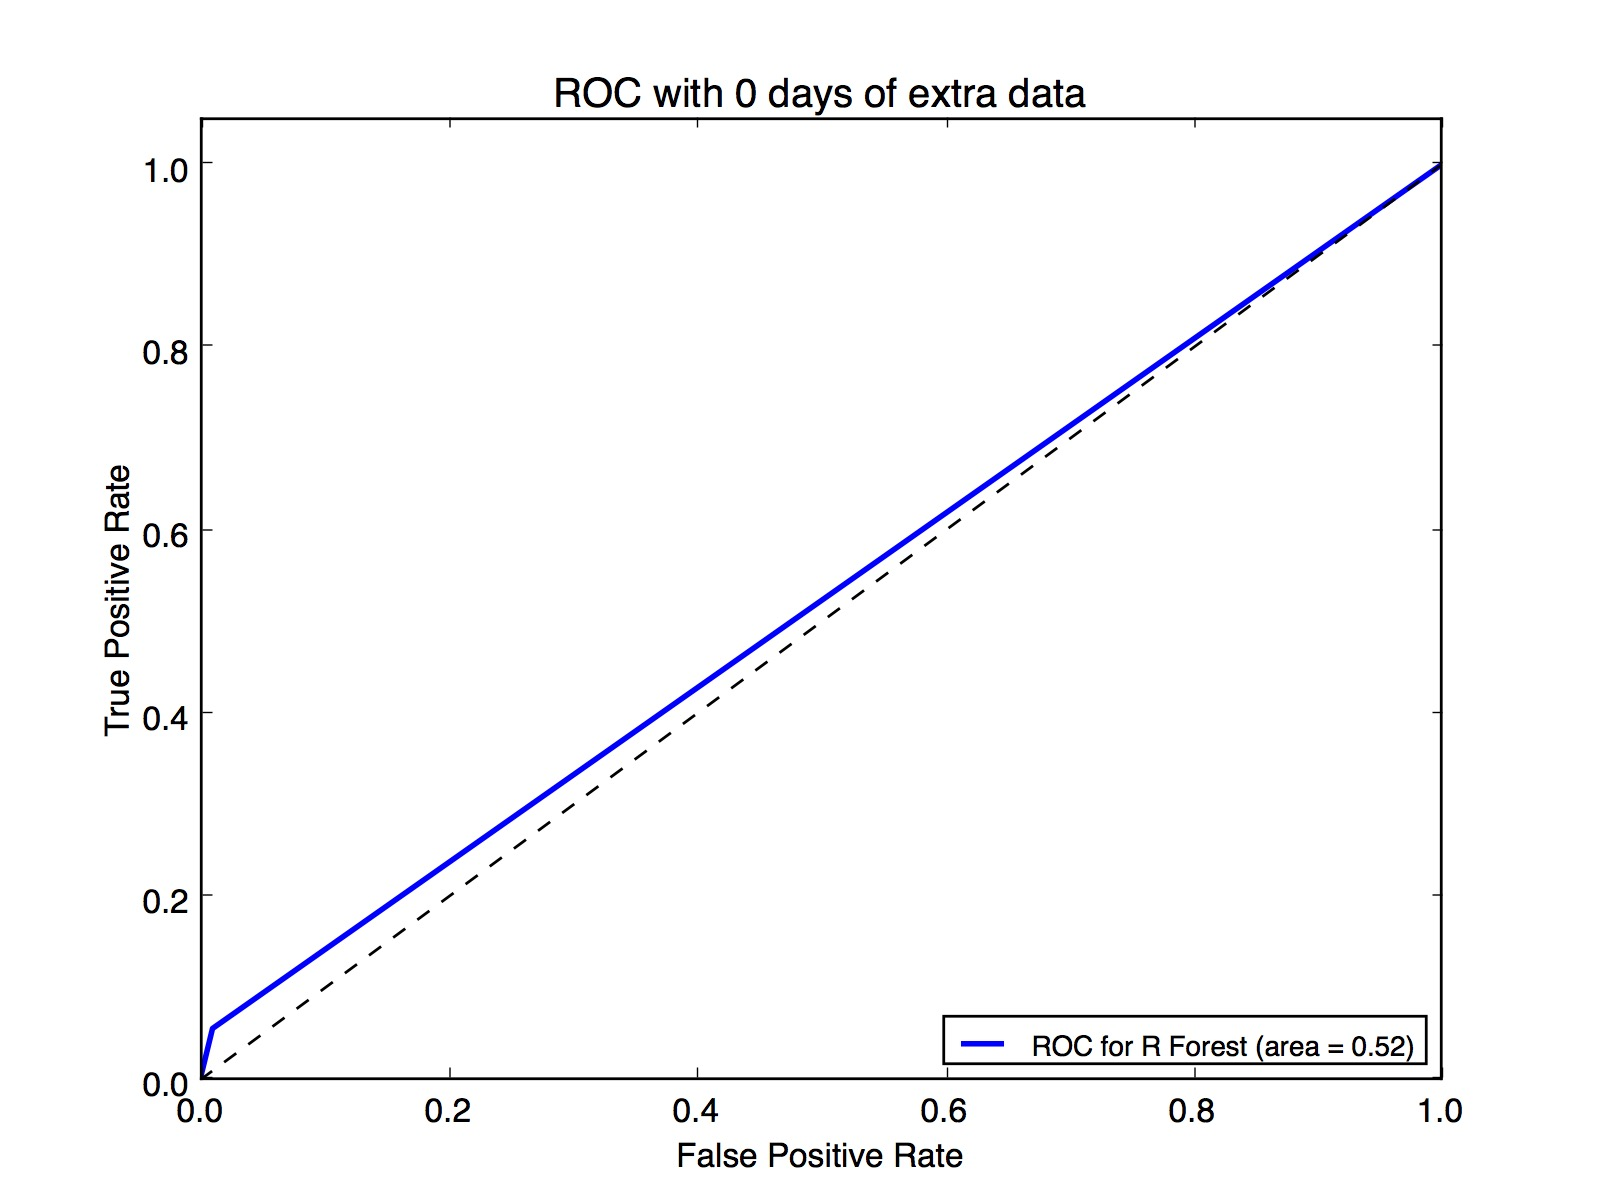
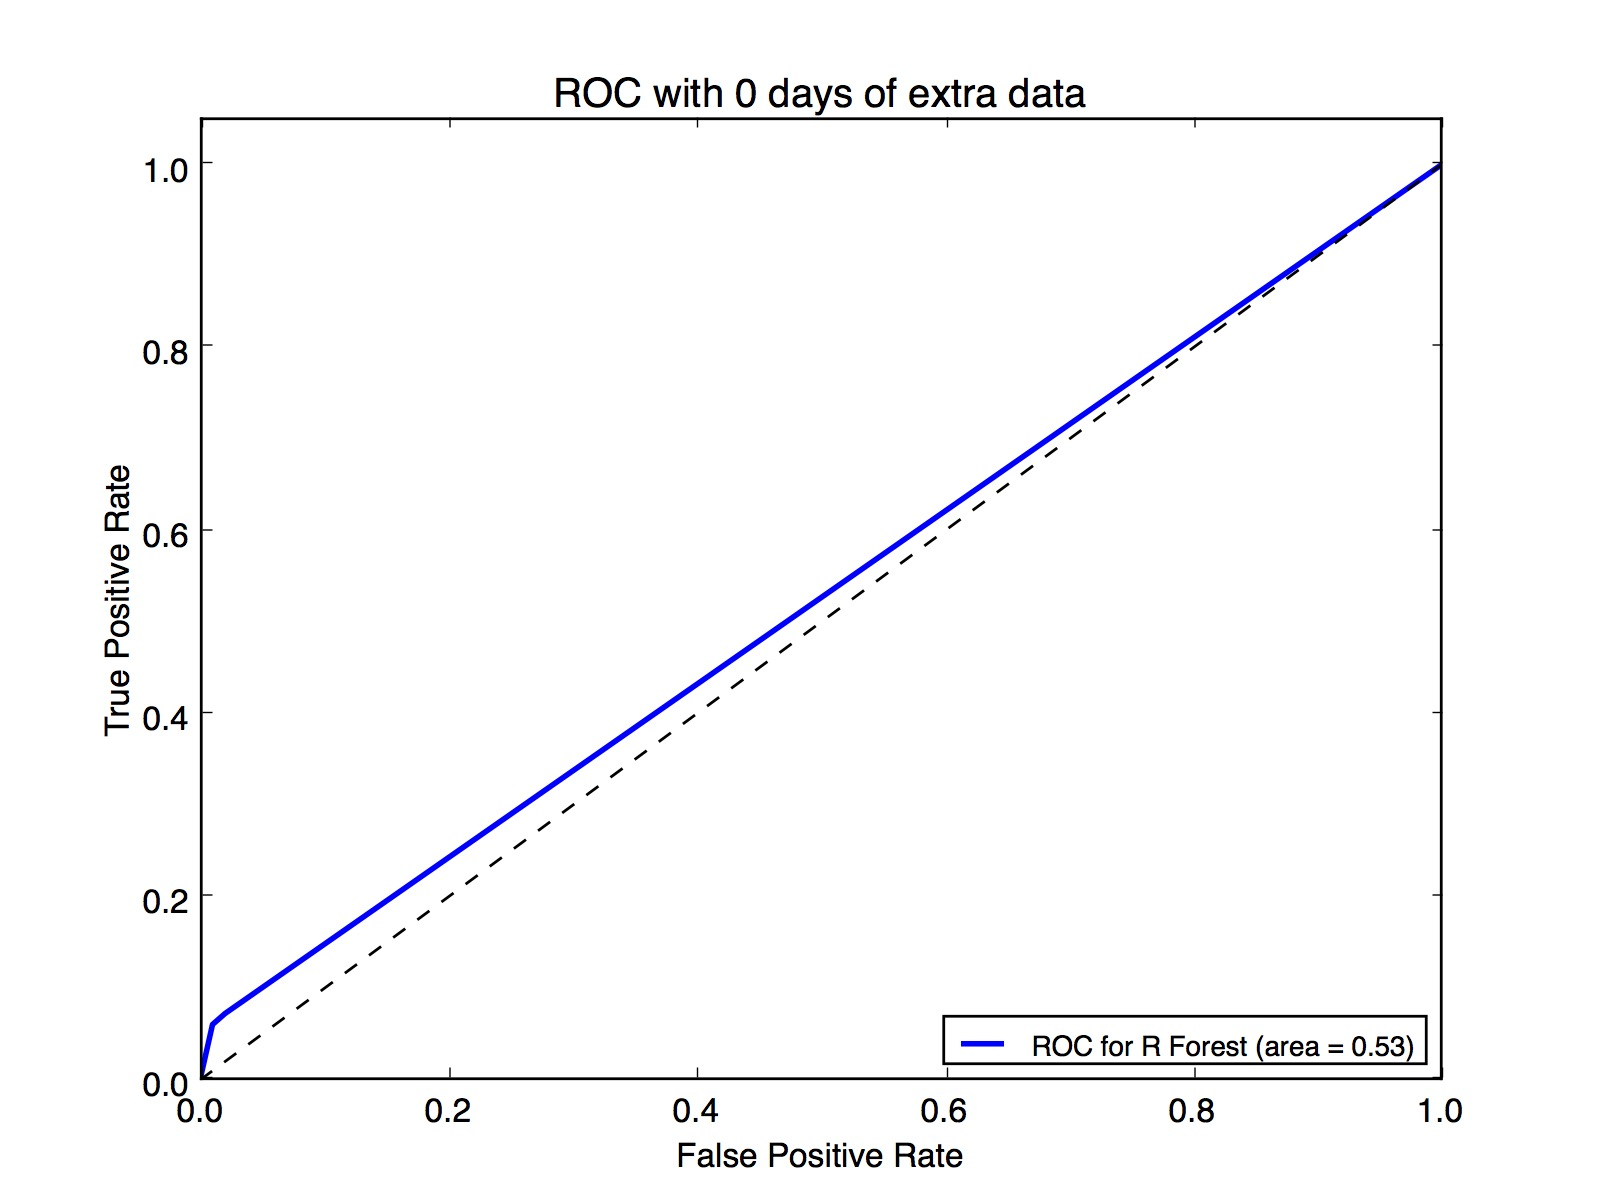
Pickle classifiers

diff --git a/capstone/west_nile/src/west_nile_model.py b/capstone/west_nile/src/west_nile_model.py
@@ -31,9 +31,18 @@ def clean_train(in_file, out_file):
             d_categorical_species[traps.iloc[index, species_idx]] == 3:
             species_categorical[index] = 1
         elif d_categorical_species[traps.iloc[index, species_idx]] == 2:
-            species_categorical[index] = 1.5
+            species_categorical[index] = 1
         else:
             species_categorical[index] = 0
+
+    traps['IsPipiens'        ] = ((traps['Species']=='CULEX PIPIENS'  )*1 +           # 8.9%   / 2699
+                               (traps['Species']=='CULEX PIPIENS/RESTUANS')*0.5)
+    traps['IsPipiensRestuans'] = ((traps['Species']=='CULEX PIPIENS/RESTUANS')*1 +    # 5.5%   / 4752
+                               (traps['Species']=='CULEX PIPIENS'  )*0 + (traps['Species']=='CULEX RESTUANS'  )*0)
+    traps['IsRestuans'       ] = ((traps['Species']=='CULEX RESTUANS'  )*1 +          # 1.8%   / 2740
+                               (traps['Species']=='CULEX PIPIENS/RESTUANS')*0.5)
+    traps['IsOther'          ] = (traps['Species']!='CULEX PIPIENS')*(traps['Species']!='CULEX PIPIENS/RESTUANS')*(traps['Species']!='CULEX RESTUANS')*1
+
 
     traps = traps.drop("Species", 1)
     traps = traps.drop("Address", 1)
@@ -43,7 +52,7 @@ def clean_train(in_file, out_file):
     traps = traps.drop("AddressAccuracy", 1)
     traps = traps.drop("Trap", 1)
 
-    traps['Species_Categorical'] = species_categorical
+    # traps['Species_Categorical'] = species_categorical
 
     traps.to_csv(out_file, index=False)
 
@@ -214,7 +223,7 @@ def last_week_weather(days_past, in_merged_file, in_weather_file, out_file):
         # From the day the virus was found add the weather for each day before that date to the dataframe.
         # go back for 5 days
         # store the data from traps csv. We'll append it to the weather for the last N days
-        data_from_traps = row[1:7]
+        data_from_traps = row[1:10]
         # now subtract N days
         for day in range(1, days_past+1):
             data_to_prepend = data_from_traps
@@ -232,10 +241,10 @@ def last_week_weather(days_past, in_merged_file, in_weather_file, out_file):
             traps_actual = traps_actual.append(data_to_append, ignore_index=True)
 
     print "Length after ", len(traps_actual)
-    traps_actual.to_csv('../input/train_weather_spray_appended.csv', index=False)
+    traps_actual.to_csv(out_file, index=False)
 
 
-def cluster_locations(in_file, out_file, test=False):
+def cluster_locations(in_file, out_file, test=False, clf=None):
     traps = pd.read_csv(in_file, parse_dates=['Date'])
 
     trap_loc = traps[['Longitude', 'Latitude']]
@@ -256,8 +265,11 @@ def cluster_locations(in_file, out_file, test=False):
 
     traps = traps.drop('Date', 1)
 
-    clf = KMeans()
-    labels = clf.fit_predict(trap_loc)
+    if clf is None:
+        clf = KMeans()
+        labels = clf.fit_predict(trap_loc)
+    else:
+        labels = clf.predict(trap_loc)
 
     traps['location_cluster'] = labels
     traps['WeekOfYear'] = week_of_year
@@ -267,6 +279,7 @@ def cluster_locations(in_file, out_file, test=False):
     if not test:
         traps = traps.drop('NumMosquitos', 1)
     traps.to_csv(out_file, index=False)
+    return clf
 
 
 def plot_roc_auc(clf, plt, traps, labels, name):
@@ -350,51 +363,79 @@ def roc_auc(file_num, in_file):
     return clf_rf
 
 
-def predict_virus(clf, in_file):
-     traps = pd.read_csv(in_file)
-     id = traps['Id']
-     traps = traps.drop('Id', 1)
-     pred = clf.predict(traps)
-     # print pred
-     submission = pd.DataFrame()
-     traps['WnvPresent'] = pred
-     traps['Id'] = id
-     traps.to_csv('../input/result.csv', index=False)
+def predict_virus(clf, in_file, days):
+    traps = pd.read_csv(in_file)
+    id = traps['Id']
+    traps = traps.drop('Id', 1)
+    pred = clf.predict(traps)
+    pred_prob = clf.predict_proba(traps)
+    # print pred
+    submission = pd.DataFrame()
+    traps['WnvPresent'] = pred
+
+    chance = []
+    for list in pred_prob:
+        chance.append(float("{0:.1f}".format(list[1])))
+    submission['Id'] = id
+    submission['WnvPresent'] = chance
+    file_name = '../output/submission_' + str(day) + '.csv'
+    submission.to_csv(file_name, index=False)
+
+
+def save_classifier(clf, name, num):
+    import pickle
+    pickle_name = "../models/" + name + "_" + str(num) + ".pickle"
+    f = open(pickle_name, 'wb')
+    pickle.dump(clf, f)
+    f.close()
 
 
 if __name__ == '__main__':
     in_train_file = '../input/train.csv'
-    out_train_file = '../input/train_clean.csv'
+    out_train_file = '../output/train_clean.csv'
     clean_train(in_train_file, out_train_file)
     print "Cleaned train..."
+
     in_weather_file = '../input/weather.csv'
-    out_weather_file = '../input/weather_corrected.csv'
+    out_weather_file = '../output/weather_corrected.csv'
     clean_weather(in_weather_file, out_weather_file)
     print "Cleaned weather..."
-    out_merged_file = '../input/train_weather_spray.csv'
+
+    out_merged_file = '../output/train_weather_spray.csv'
     merge_files(out_train_file, out_weather_file, out_merged_file)
     print "Merged train, weather, spray"
 
     # days_past = [5,7,10,15,20]
     # for day in days_past:
+
     day = 20
-    out_train_appended = '../input/train_weather_spray_appended.csv'
+    out_train_appended = '../output/train_weather_spray_appended.csv'
     last_week_weather(day, out_merged_file, out_weather_file, out_train_appended)
     print "Added ", str(day), " days of past weather"
-    out_clustered_file = '../input/train_weather_spray_clustered.csv'
-    cluster_locations(out_train_appended, out_clustered_file)
+
+    out_clustered_file = '../output/train_weather_spray_clustered.csv'
+    kmeans_clf = cluster_locations(out_train_appended, out_clustered_file)
     print "Clustered data..."
+
     classifier = roc_auc(day, out_clustered_file)
 
+    print classifier.feature_importances_
+
     in_test_file = '../input/test.csv'
-    out_test_file = '../input/test_clean.csv'
-    print "Cleaned test..."
+    out_test_file = '../output/test_clean.csv'
     clean_train(in_test_file, out_test_file)
-    out_merged_test_file = '../input/test_weather_spray.csv'
-    print "Merged test, weather, spray"
+    print "Cleaned test..."
+
+    out_merged_test_file = '../output/test_weather_spray.csv'
     merge_files(out_test_file,out_weather_file, out_merged_test_file)
-    out_clustered_test_file = '../input/test_weather_spray_clustered.csv'
+    print "Merged test, weather, spray"
+
+    out_clustered_test_file = '../output/test_weather_spray_clustered.csv'
+    cluster_locations(out_merged_test_file, out_clustered_test_file, test=True, clf=kmeans_clf)
     print "Clustered test data..."
-    cluster_locations(out_merged_test_file, out_clustered_test_file, test=True)
+
     print "Predicting..."
-    [predict_virus(classifier,out_clustered_test_file)]
+    predict_virus(classifier,out_clustered_test_file, day)
+
+    save_classifier(classifier,"Random_forest", day)
+    save_classifier(kmeans_clf,"k_means", day)

diff --git a/capstone/west_nile/src/clean_train.py b/capstone/west_nile/src/clean_train.py
@@ -46,8 +46,21 @@ if __name__ == '__main__':
 
         # distance_from_centre = haversine_distance(traps.iloc[index, lat_idx], traps.iloc[index, long_idx])
 
+    traps['IsPipiens'        ] = ((traps['Species']=='CULEX PIPIENS'  )*1 +           # 8.9%   / 2699
+                               (traps['Species']=='CULEX PIPIENS/RESTUANS')*0.5)
+    traps['IsPipiensRestuans'] = ((traps['Species']=='CULEX PIPIENS/RESTUANS')*1 +    # 5.5%   / 4752
+                               (traps['Species']=='CULEX PIPIENS'  )*0 + (traps['Species']=='CULEX RESTUANS'  )*0)
+    traps['IsRestuans'       ] = ((traps['Species']=='CULEX RESTUANS'  )*1 +          # 1.8%   / 2740
+                               (traps['Species']=='CULEX PIPIENS/RESTUANS')*0.5)
+#         traps['IsSalinarius'     ] = (traps['Species']=='CULEX SALINARIUS')*1           #   0%   /   86
+#         traps['IsTarsalis'       ] = (traps['Species']=='CULEX TARSALIS'  )*1           #   0%   /    6
+#         traps['IsTerritans'      ] = (traps['Species']=='CULEX TERRITANS' )*1           #   0%   /  222
+    traps['IsOther'          ] = (traps['Species']!='CULEX PIPIENS')*(traps['Species']!='CULEX PIPIENS/RESTUANS')*(traps['Species']!='CULEX RESTUANS')
+
+
+
     traps = traps.drop("Species", 1)
 
-    traps['Species_Categorical'] = species_categorical
+    # traps['Species_Categorical'] = species_categorical
 
     traps.to_csv('../input/train_clean.csv', index=False)
